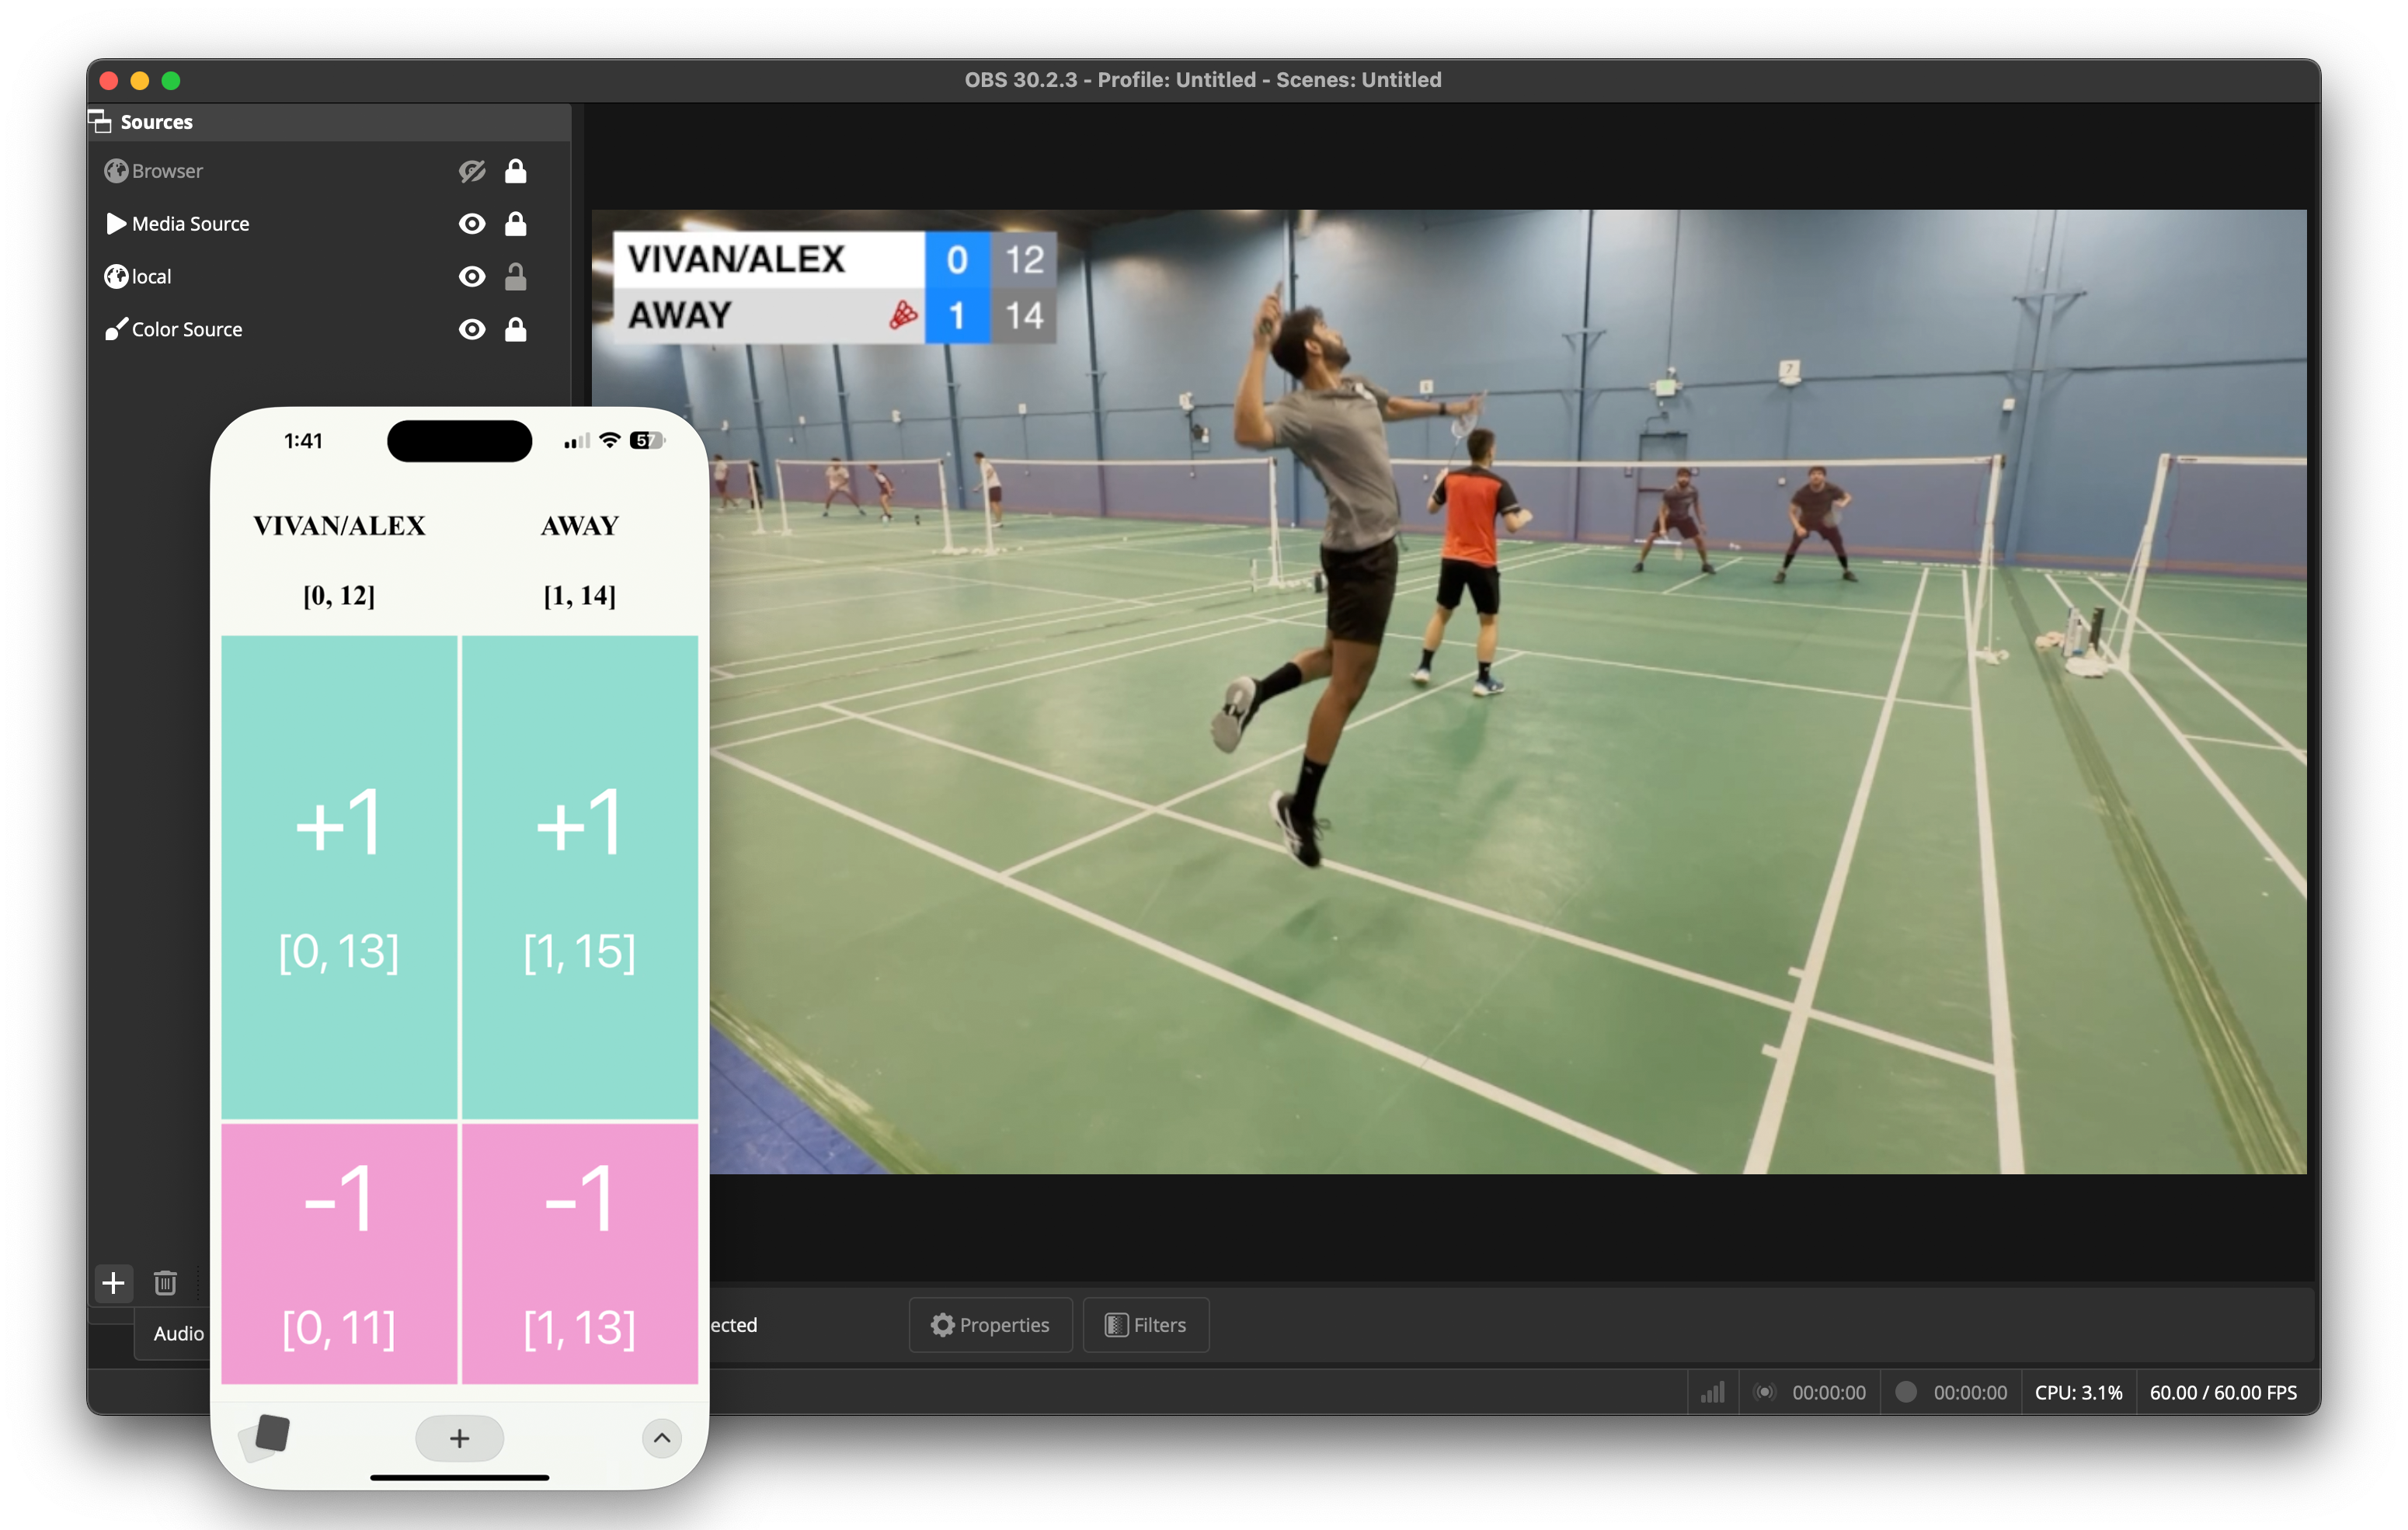
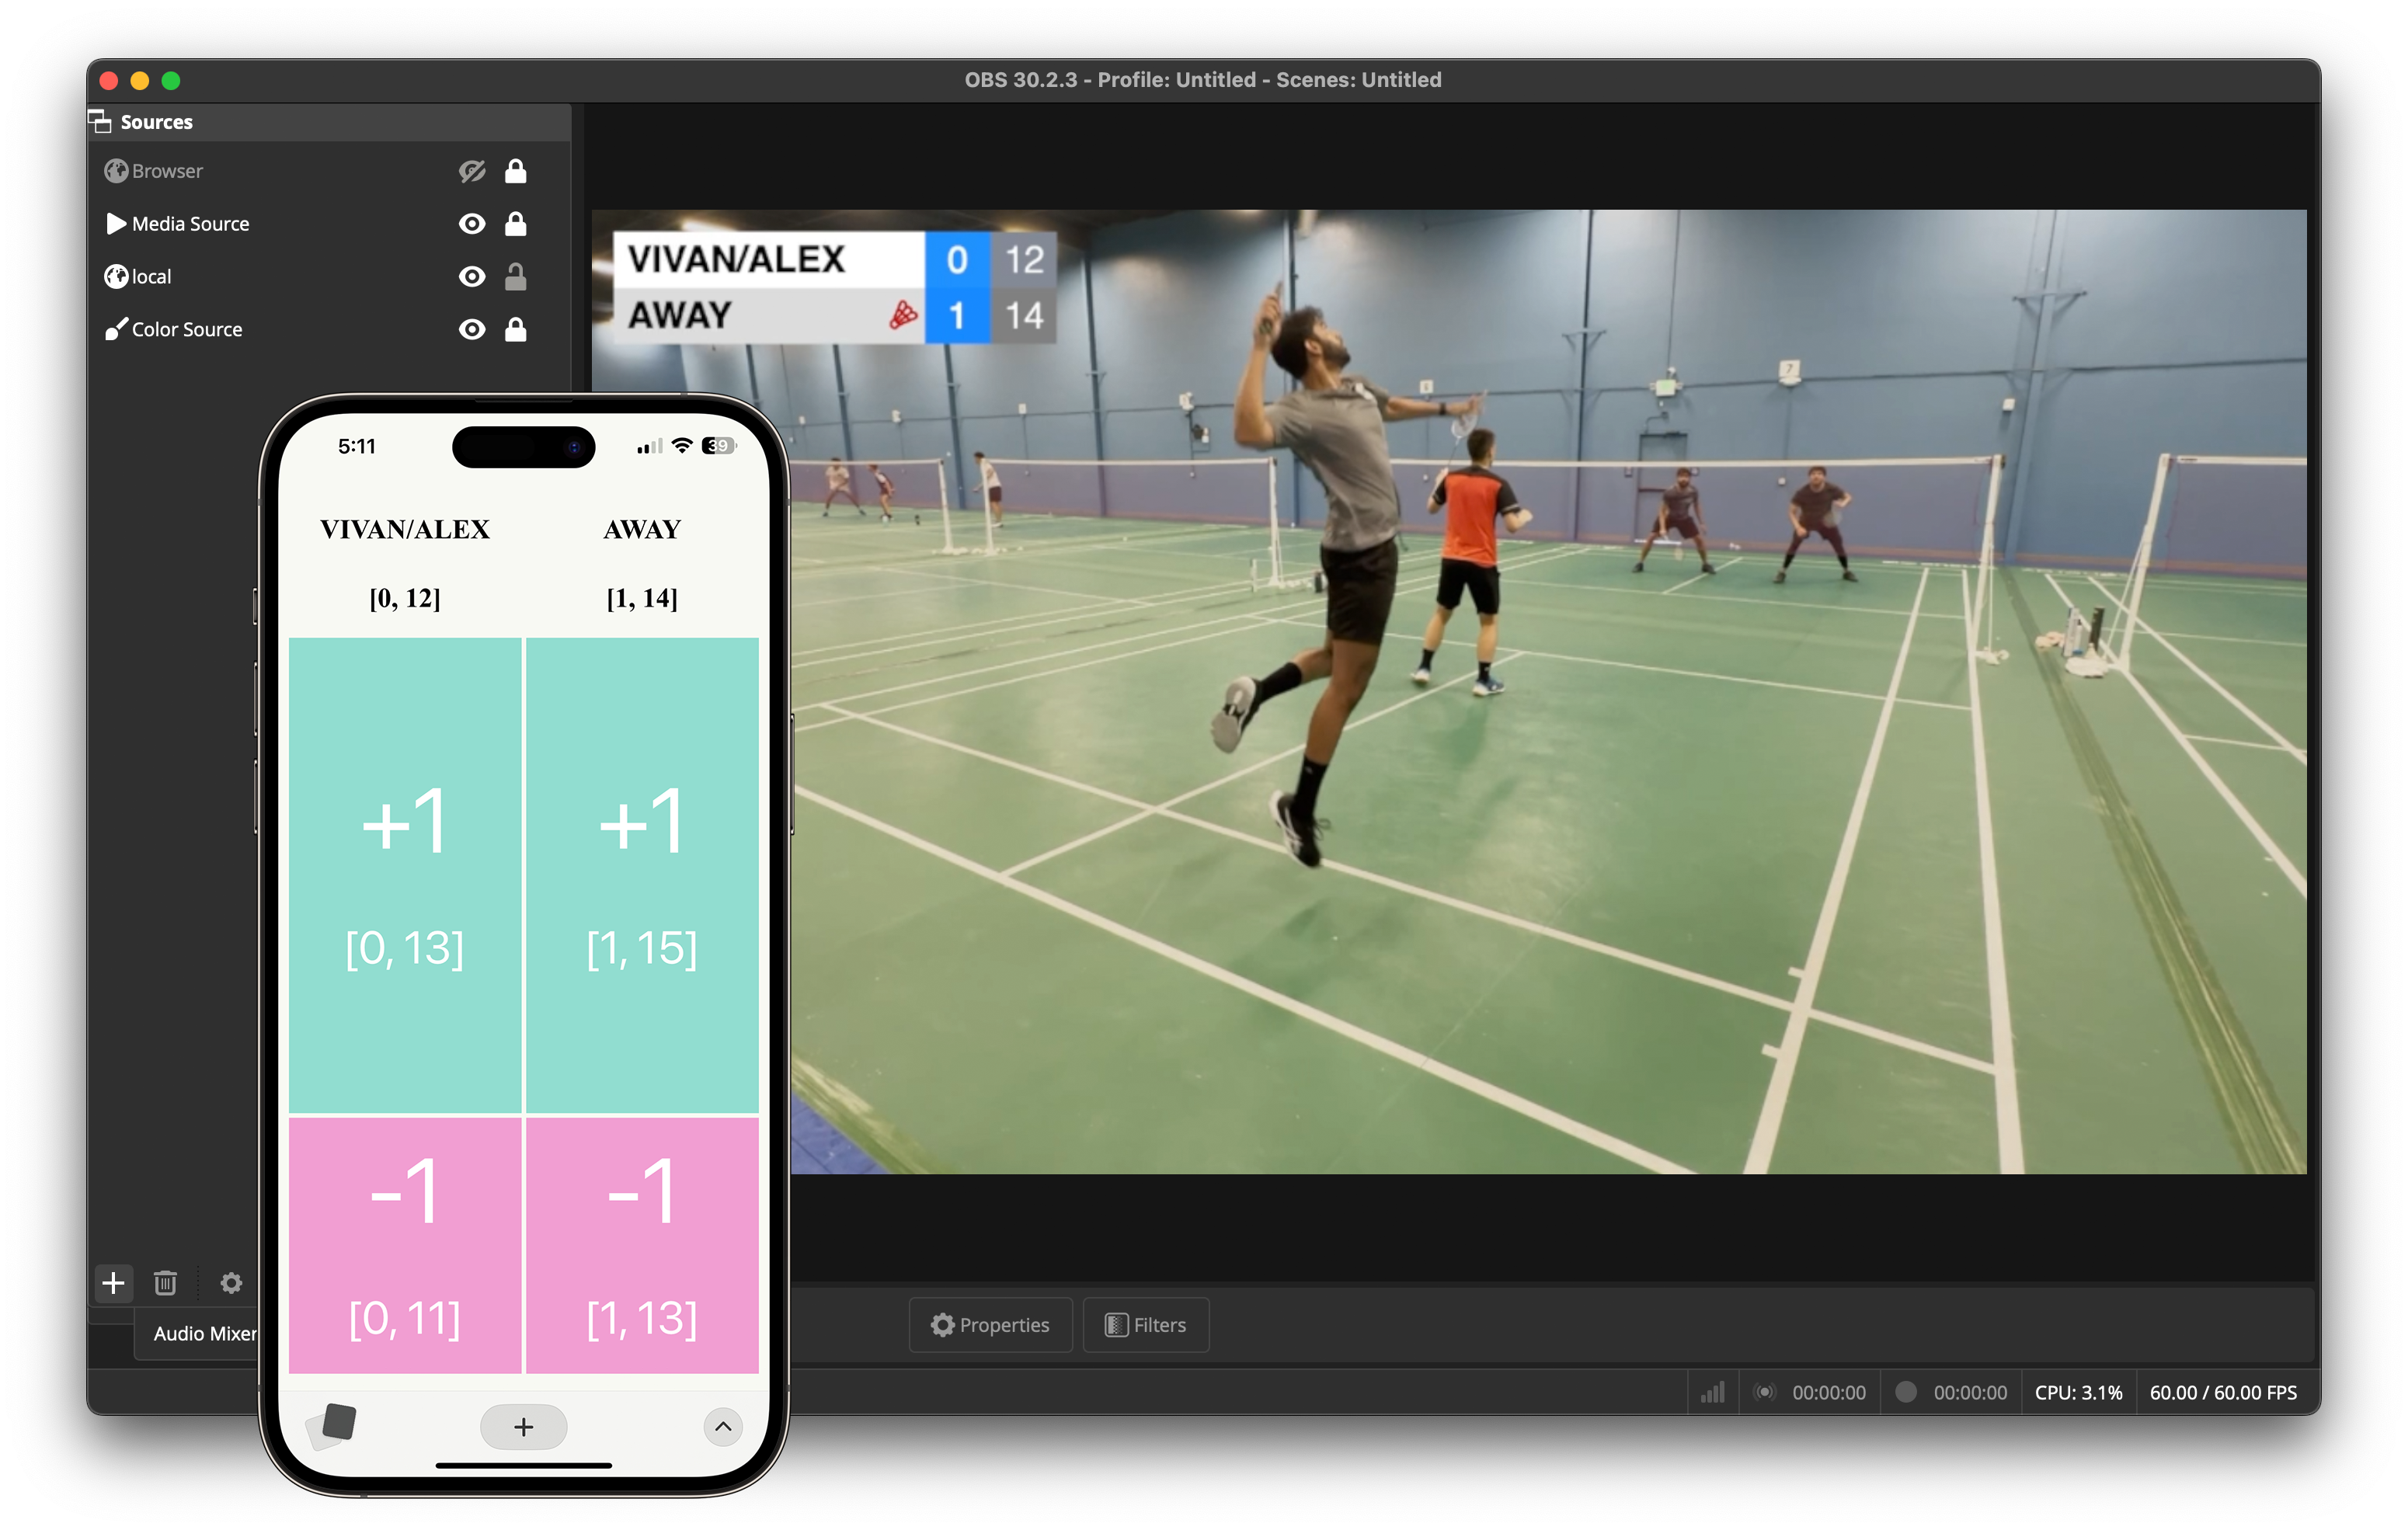
text animation improvement and scroll to top button

Changed region(s): [[0.0619, 0.2477, 0.3406, 1.0]]

diff --git a/src/Home.jsx b/src/Home.jsx
@@ -40,15 +40,19 @@ export default function Home() {
     }
 
     const hoveringArrow = useRef(false)
+    const hoverArrowTimeout = useRef(false)
     const arrowTimeout = useRef(null)
     
     function handleArrowEnter() {
+        if (hoverArrowTimeout.current) {
+            return
+        }
         hoveringArrow.current = true
         arrowTimeout.current = setTimeout(() => {
-            if (hoveringArrow.current) {
+            if (hoveringArrow.current && !hoverArrowTimeout.current) {
                 scrollToElement(startRef)
             }
-        }, [600])
+        }, [800])
     }
     
 
@@ -98,10 +102,10 @@ export default function Home() {
     }
     
     return (
-        <CardSpotlightEffect lag={'100'} intensity={contactToggled ? '0' : ''}>
+        <CardSpotlightEffect lag={'100'} intensity={contactToggled ? '0' : ''} radius='18000px'>
                 <ContactFormModal modalRef={modalRef} contactToggled={contactToggled} toggleContactForm={toggleContactForm} textBoxClicked={textBoxClicked}/>
             <div className='w-[100vw]'>
-                <div className='justify-self-center max-w-[90vw] xl:max-w-[65vw] 2xl:max-w-[50vw] space-y-10 mb-20'>
+                <div className='justify-self-center max-w-[90vw] xl:max-w-[65vw] 2xl:max-w-[50vw] space-y-10 mb-5'>
 
                     <div className='flex flex-col justify-center items-center mb-10'>
                         <NameCard toggleContactForm={toggleContactForm}></NameCard>
@@ -144,10 +148,20 @@ export default function Home() {
                     </div>
 
 
-                    <div>
+                    <div className='mb-10'>
                         <h1 className='text-2xl 2xl:text-3xl mb-10 text-gray-200'>Experienced In:</h1>
                         <TechScroller title='all' technologies={allTechnologies}/>
                     </div>
+                    <CardSpotlightEffect intensity={'0.1'} customCSS={'rounded-2xl mt-10 mb-5'}>
+                            <i className='fa-solid fa-angle-up self-center justify-self-center text-5xl px-10 py-3 text-white/75'
+                            onClick={() => {
+                                hoverArrowTimeout.current = true
+                                window.scrollTo({top:0, behavior:'smooth'});
+                                setTimeout(() => {
+                                    hoverArrowTimeout.current = false
+                                }, [1000])
+                            }}></i>
+                        </CardSpotlightEffect>
                 </div>
             </div>
         </CardSpotlightEffect>

diff --git a/src/components/NameCard.jsx b/src/components/NameCard.jsx
@@ -6,7 +6,7 @@ import resume from '../assets/Vivan_Sinha_Resume.pdf'
 
 function PFP() {
     return (
-        <div className={'relative w-10 min-w-[25vw] md:w-28 sm:min-w-[12vw] md:min-w-0 hover:transform hover:rotate-[-15deg] hover:scale-110 ease-in-out duration-500 rounded-full overflow-hidden border-2 border-slate-200'}>
+        <div className={'relative w-10 min-w-[25vw] md:w-28 sm:min-w-[12vw] md:min-w-0 hover:transform hover:rotate-[-15deg] hover:scale-120 ease-in-out duration-500 rounded-full overflow-hidden border-2 border-slate-200'}>
             <img className='' src={pfp}/>
             <img className='absolute top-0 hover:transform hover:opacity-0 ease-in-out duration-500' src={logo}/>
 
@@ -95,20 +95,20 @@ function LargeScreenName({toggleContactForm}) {
             <div className='flex flex-row items-center space-x-5 justify-center text-center'>
                 <PFP/>
                 <div>
-                    <CardSpotlightEffect customCSS={'px-1'} intensity={'0.08'}>
+                    <CardSpotlightEffect customCSS={'px-1'} intensity={'0.1'}>
                     <h1 className='text-4xl tracking-tight'>Vivan Sinha</h1></CardSpotlightEffect>
                     <p className='justify-self-start text-xs px-1 md:text-xl text-gray-300'><i className="fa-solid fa-map-location-dot"/> Berkeley, CA</p>
                 </div>
             </div>
             <div className='text-4xl sm:text-9xl font-bold text-center'>
                 <div className='flex flex-row justify-center'>
-                    <CardSpotlightEffect intensity={'0.08'} customCSS={'pr-2 '}>
+                    <CardSpotlightEffect intensity={'0.1'} customCSS={'pr-2 '}>
                         <h1 className=''>FULL-STACK</h1>
                     </CardSpotlightEffect>
                 </div>
                 <div className='flex flex-row space-x-6 items-center w-full'>
 
-                    <CardSpotlightEffect intensity={'0.08'} customCSS={'pr-2 '}>
+                    <CardSpotlightEffect intensity={'0.1'} customCSS={'pr-2 '}>
                     <h1 className=''>DEVELOPER</h1>
                     </CardSpotlightEffect>
                     <CardSpotlightEffect intensity={'0.16'} customCSS={'rounded-full'}>

diff --git a/src/components/CardSpotlightEffect.jsx b/src/components/CardSpotlightEffect.jsx
@@ -1,6 +1,6 @@
 import React, { useState, useRef, useEffect } from 'react'
 
-export const CardSpotlightEffect = ({children, customCSS, intensity, lag, rgb}) => {
+export const CardSpotlightEffect = ({children, customCSS, intensity, lag, rgb, radius}) => {
   const hasCustomCSS = customCSS !== '' && customCSS != null;
   if (intensity == null || intensity == undefined || intensity == '') {
     intensity = 0.04
@@ -10,6 +10,9 @@ export const CardSpotlightEffect = ({children, customCSS, intensity, lag, rgb}) 
   }
   if (rgb == null || rgb == undefined || rgb == '') {
     rgb = '255,255,255'
+  }
+  if (radius == null || radius == undefined || radius == '') {
+    radius = '8000px'
   }
   const divRef = useRef(null);
   const [isFocused, setIsFocused] = useState(false);
@@ -63,7 +66,7 @@ export const CardSpotlightEffect = ({children, customCSS, intensity, lag, rgb}) 
         className="w-full pointer-events-none absolute inset-0 opacity-0 transition duration-300"
         style={{
           opacity,
-          background: `radial-gradient(18000px circle at ${position.x}px ${position.y}px, rgba(${rgb},${intensity}), transparent 5%)`,
+          background: `radial-gradient(${radius} circle at ${position.x}px ${position.y}px, rgba(${rgb},${intensity}), transparent 5%)`,
         }}
       />
       {children}